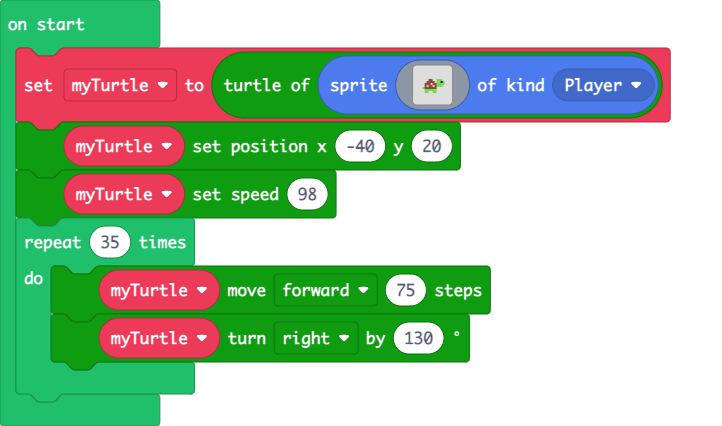
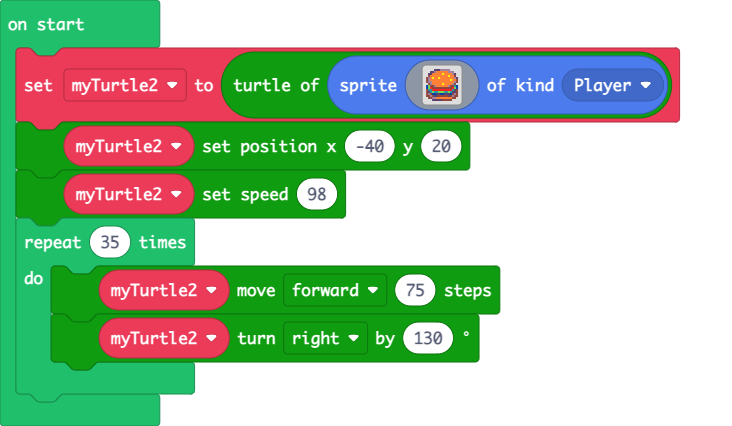
fixed test.ts and main.ts, so the variables would not collide

diff --git a/images.g.ts b/images.g.ts
@@ -3,6 +3,60 @@ namespace myImages {
 
     helpers._registerFactory("image", function(name: string) {
         switch(helpers.stringTrim(name)) {
+            case "image2":return img`
+. . . . c c c b b b b b . . . . 
+. . c c b 4 4 4 4 4 4 b b b . . 
+. c c 4 4 4 4 4 5 4 4 4 4 b c . 
+. e 4 4 4 4 4 4 4 4 4 5 4 4 e . 
+e b 4 5 4 4 5 4 4 4 4 4 4 4 b c 
+e b 4 4 4 4 4 4 4 4 4 4 5 4 4 e 
+e b b 4 4 4 4 4 4 4 4 4 4 4 b e 
+. e b 4 4 4 4 4 5 4 4 4 4 b e . 
+8 7 e e b 4 4 4 4 4 4 b e e 6 8 
+8 7 2 e e e e e e e e e e 2 7 8 
+e 6 6 2 2 2 2 2 2 2 2 2 2 6 c e 
+e c 6 7 6 6 7 7 7 6 6 7 6 c c e 
+e b e 8 8 c c 8 8 c c c 8 e b e 
+e e b e c c e e e e e c e b e e 
+. e e b b 4 4 4 4 4 4 4 4 e e . 
+. . . c c c c c e e e e e . . . 
+`;
+            case "image4":return img`
+. . . . c c c b b b b b . . . . 
+. . c c b 4 4 4 4 4 4 b b b . . 
+. c c 4 4 4 4 4 5 4 4 4 4 b c . 
+. e 4 4 4 4 4 4 4 4 4 5 4 4 e . 
+e b 4 5 4 4 5 4 4 4 4 4 4 4 b c 
+e b 4 4 4 4 4 4 4 4 4 4 5 4 4 e 
+e b b 4 4 4 4 4 4 4 4 4 4 4 b e 
+. e b 4 4 4 4 4 5 4 4 4 4 b e . 
+8 7 e e b 4 4 4 4 4 4 b e e 6 8 
+8 7 2 e e e e e e e e e e 2 7 8 
+e 6 6 2 2 2 2 2 2 2 2 2 2 6 c e 
+e c 6 7 6 6 7 7 7 6 6 7 6 c c e 
+e b e 8 8 c c 8 8 c c c 8 e b e 
+e e b e c c e e e e e c e b e e 
+. e e b b 4 4 4 4 4 4 4 4 e e . 
+. . . c c c c c e e e e e . . . 
+`;
+            case "image3":return img`
+. . . . c c c b b b b b . . . . 
+. . c c b 4 4 4 4 4 4 b b b . . 
+. c c 4 4 4 4 4 5 4 4 4 4 b c . 
+. e 4 4 4 4 4 4 4 4 4 5 4 4 e . 
+e b 4 5 4 4 5 4 4 4 4 4 4 4 b c 
+e b 4 4 4 4 4 4 4 4 4 4 5 4 4 e 
+e b b 4 4 4 4 4 4 4 4 4 4 4 b e 
+. e b 4 4 4 4 4 5 4 4 4 4 b e . 
+8 7 e e b 4 4 4 4 4 4 b e e 6 8 
+8 7 2 e e e e e e e e e e 2 7 8 
+e 6 6 2 2 2 2 2 2 2 2 2 2 6 c e 
+e c 6 7 6 6 7 7 7 6 6 7 6 c c e 
+e b e 8 8 c c 8 8 c c c 8 e b e 
+e e b e c c e e e e e c e b e e 
+. e e b b 4 4 4 4 4 4 4 4 e e . 
+. . . c c c c c e e e e e . . . 
+`;
             case "image1":return img`
 . . . . . . . . . . . . . . . . 
 . . . . . . . . . . . . . . . . 
@@ -21,7 +75,7 @@ namespace myImages {
 . . . . . . . . . . . . . . . . 
 . . . . . . . . . . . . . . . . 
 `;
-            case "image2":return img`
+            case "image5":return img`
 . . . . . . . . . . . . . . . . 
 . . . . . . . . . . . . . . . . 
 . . . . . . . . . . . . . . . . 

diff --git a/main.ts b/main.ts
@@ -1,24 +1,24 @@
-let myTurtle = turtle.fromSprite(sprites.create(img`
-    . . . . . . . . . . . . . . . . 
-    . . . . . . . . . . . . . . . . 
-    . . . . . . . . . . . . . . . . 
-    . . . . . . . . . . . . . . . . 
-    . . . . . . . . . . . . . . . . 
-    . . . . . . e e . . 7 7 7 . . . 
-    . . . . . e e e e . 7 7 f 7 . . 
-    . . . . e e e d e e 7 7 7 7 . . 
-    . . . . e d e e d e 7 7 7 . . . 
-    . . . 7 e e e e e e . . . . . . 
-    . . . . 7 7 7 7 7 7 . . . . . . 
-    . . . . 7 7 . . 7 7 . . . . . . 
-    . . . . . . . . . . . . . . . . 
-    . . . . . . . . . . . . . . . . 
-    . . . . . . . . . . . . . . . . 
+let myTurtle2 = turtle.fromSprite(sprites.create(img`
+    . . . . . . . . . . . . . . . .
+    . . . . . . . . . . . . . . . .
+    . . . . . . . . . . . . . . . .
+    . . . . . . . . . . . . . . . .
+    . . . . . . . . . . . . . . . .
+    . . . . . . e e . . 7 7 7 . . .
+    . . . . . e e e e . 7 7 f 7 . .
+    . . . . e e e d e e 7 7 7 7 . .
+    . . . . e d e e d e 7 7 7 . . .
+    . . . 7 e e e e e e . . . . . .
+    . . . . 7 7 7 7 7 7 . . . . . .
+    . . . . 7 7 . . 7 7 . . . . . .
+    . . . . . . . . . . . . . . . .
+    . . . . . . . . . . . . . . . .
+    . . . . . . . . . . . . . . . .
     . . . . . . . . . . . . . . . . 
     `, SpriteKind.Player))
-myTurtle.setPositionCartesian(-40, 20)
-myTurtle.setSpeed(98)
+myTurtle2.setPositionCartesian(-40, 20)
+myTurtle2.setSpeed(98)
 for (let index = 0; index < 35; index++) {
-    myTurtle.moveDirection(TurtleDirection.Forward, 75)
-    myTurtle.turnDirectionByDegrees(TurtleTurnDirection.Right, 130)
+    myTurtle2.moveDirection(TurtleDirection.Forward, 75)
+    myTurtle2.turnDirectionByDegrees(TurtleTurnDirection.Right, 130)
 }

diff --git a/test.ts b/test.ts
@@ -1,4 +1,4 @@
-let myTurtle = turtle.fromSprite(sprites.create(img`
+let myTurtle3 = turtle.fromSprite(sprites.create(img`
     . . . . . . . . . . . . . . . .
     . . . . . . . . . . . . . . . .
     . . . . . . . . . . . . . . . .
@@ -16,9 +16,9 @@ let myTurtle = turtle.fromSprite(sprites.create(img`
     . . . . . . . . . . . . . . . .
     . . . . . . . . . . . . . . . . 
     `, SpriteKind.Player))
-myTurtle.setPositionCartesian(-40, 20)
-myTurtle.setSpeed(98)
+myTurtle3.setPositionCartesian(-40, 20)
+myTurtle3.setSpeed(98)
 for (let index = 0; index < 35; index++) {
-    myTurtle.moveDirection(TurtleDirection.Forward, 75)
-    myTurtle.turnDirectionByDegrees(TurtleTurnDirection.Right, 130)
+    myTurtle3.moveDirection(TurtleDirection.Forward, 75)
+    myTurtle3.turnDirectionByDegrees(TurtleTurnDirection.Right, 130)
 }
